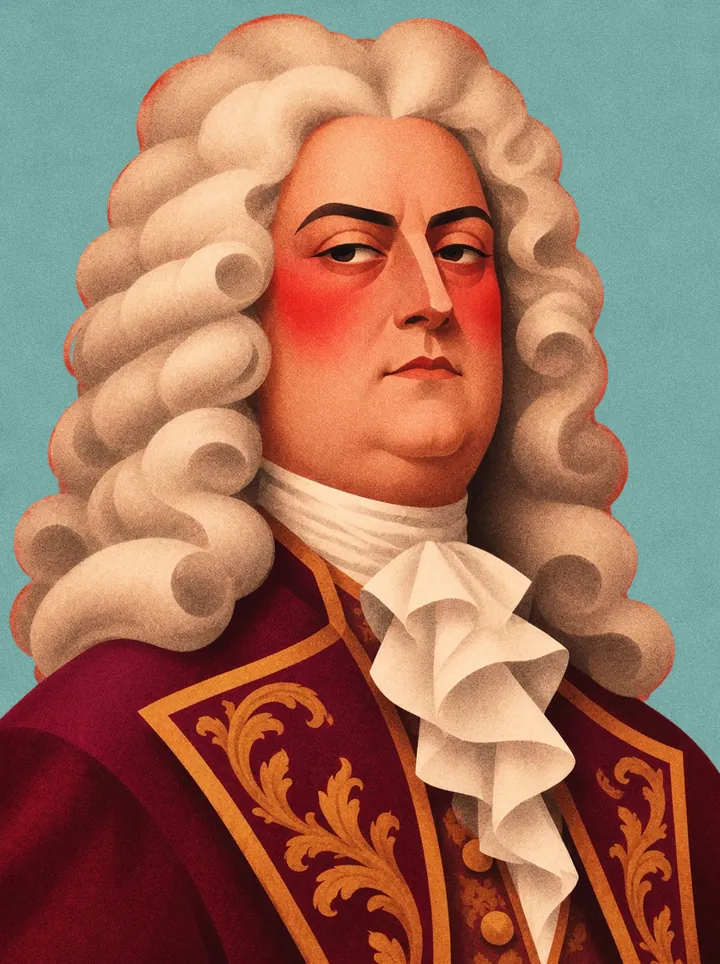
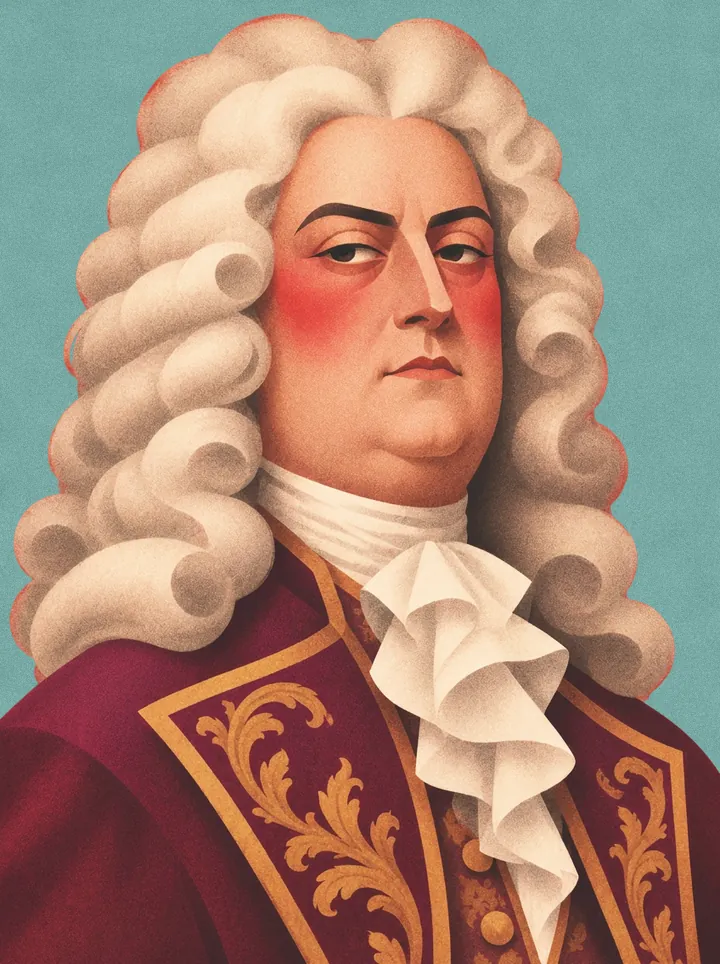
Composer art: backdrops that complement each costume, figures lifted to sit on the pale backdrops, Bizet's face centred at the others' size
Claude-Session: https://claude.ai/code/session_01J9nR1BmP9TjDnKqecdbpyd

diff --git a/scripts/art/composers.py b/scripts/art/composers.py
@@ -9,9 +9,10 @@ named "Johannes Brahms" holds Verdi and "Frame 9" holds Brahms: the images are p
 import numpy as np, os, json, sys
 FIG, OUT = sys.argv[1], sys.argv[2]
 from PIL import Image, ImageFilter
-# backdrops: pale, distinct tints (each composer his own; a few soft reds), a quiet complement to the costume; the originals' own
+# backdrops: pale, distinct tints, each the complement of the costume's main colour (a red coat on aqua, a green
+# coat on blush; black coats on warm tints, a few soft reds); the originals' own
 # backdrops were deep reds that looked alike side by side
-COLS = json.loads('{"handel": "#79aaa4", "mozart": "#9db7d6", "vivaldi": "#a3b996", "faure": "#b2a3d4", "puccini": "#d99a7c", "tchaikovsky": "#c7a3c0", "bizet": "#dcc47e", "rstrauss": "#93c6ae", "wagner": "#c07d78", "rossini": "#a9cfd2", "brahms": "#9fa7d9", "beethoven": "#b7c4cf", "haydn": "#e5aeb6", "verdi": "#e7c9a1", "bach": "#d48a78"}')
+COLS = json.loads('{"handel": "#79aaa4", "mozart": "#9cc3cf", "vivaldi": "#a9c79a", "haydn": "#e5aeb6", "beethoven": "#a6d1bd", "rossini": "#a9cfd2", "verdi": "#e7c9a1", "wagner": "#b8bf8e", "brahms": "#9fa7d9", "puccini": "#a7bfdc", "bach": "#d6907a", "tchaikovsky": "#cd8a82", "faure": "#e6b892", "bizet": "#dfc781", "rstrauss": "#b5a6d6"}')
 CUT = {"handel":"38e4289f22ea","mozart":"ecf959a526d6","vivaldi":"27d33c8fb60d","faure":"ffdd2db6ba62","puccini":"d0d65df90166","tchaikovsky":"a218febde4e9","bizet":"24f075fbd806","rstrauss":"08d635be10fb","wagner":"b0c402cd1a7a","rossini":"c87a9944d0d0","brahms":"9e744d05b498","beethoven":"fd51184d3a32","haydn":"97549252bd2a","verdi":"ce265d70f0b1","bach":"317f7027ec20"}
 full = {h[:12]: h for h in os.listdir(os.path.join(FIG, 'images'))}
 def grain(size, seed, strength=7.0):
@@ -24,11 +25,23 @@ def grain(size, seed, strength=7.0):
         return n * amount
     k = strength / 7.0
     return layer(0, 5.0 * k) + layer(0.6, 2.0 * k) + layer(8, 1.2 * k)
+# the figures were painted for deep red backdrops: on pale ones they read heavy. A gentle lift (exposure), softer
+# blacks, a little less saturation (the red cheeks), and a breath of the backdrop's colour in the shadows so the
+# figure sits in its light.
+EXPOSURE, BLACKS, SAT, AMBIENT = 1.18, 0.07, 0.88, 0.10
+def tone(fig, bgc):
+    luma = (fig * np.array([0.299, 0.587, 0.114], np.float32)).sum(-1, keepdims=True)
+    fig = luma + (fig - luma) * SAT
+    fig = 1 - (1 - fig) ** EXPOSURE
+    fig = BLACKS + fig * (1 - BLACKS)
+    luma = (fig * np.array([0.299, 0.587, 0.114], np.float32)).sum(-1, keepdims=True)
+    return fig + (bgc - fig) * AMBIENT * (1 - luma) ** 2
 def comp(cut, bg, size, seed):
     a = np.asarray(cut).astype(np.float32) / 255; al = a[..., 3:4]
     rgb = np.array([int(bg[i:i+2], 16) for i in (1, 3, 5)], np.float32)
     back = np.broadcast_to(rgb, (size[1], size[0], 3)) + grain(size, seed)[..., None]
-    return Image.fromarray((a[..., :3] * 255 * al + back * (1 - al)).clip(0, 255).astype(np.uint8))
+    fig = tone(a[..., :3], rgb / 255)
+    return Image.fromarray((fig * 255 * al + back * (1 - al)).clip(0, 255).astype(np.uint8))
 os.makedirs(OUT, exist_ok=True)
 for i, (n, h) in enumerate(CUT.items()):
     im = Image.open(os.path.join(FIG, 'images', full[h])).convert('RGBA'); W, H = im.size

diff --git a/scripts/art/composer-faces.py b/scripts/art/composer-faces.py
@@ -29,10 +29,10 @@ for f in [x for x in n if x['type'] == 'FRAME' and round(x['size']['x']) == 700]
     i = list(g['CUT']).index(key)
     g['comp'](fig, g['COLS'][key], (320, 320), i * 7 + 1).save(f'{OUT}/composer-{key}-face.webp', quality=82, method=6)
 
-# Bizet has no circle frame in the file: placed by hand to match the others (in a 700 px frame: the figure 580 wide,
-# 60 from the left, at the top), so his head sits at the same size as theirs.
+# Bizet has no circle frame in the file: placed by hand to match the others (in a 700 px frame: the figure 680 wide, its
+# head centred and about 58% of the circle's height, as in the others), so his head sits at the same size as theirs.
 bz = Image.open(H[g['CUT']['bizet'][:6]]).convert('RGBA')
-x, y, w = 60, 0, 580; s = 320 / 700
+x, y, w = -7, -92, 680; s = 320 / 700
 part = bz.resize((round(w * s), round(w * bz.height / bz.width * s)), Image.LANCZOS)
 fig = Image.new('RGBA', (320, 320), (0, 0, 0, 0)); fig.paste(part, (round(x * s), round(y * s)), part)
 g['comp'](fig, g['COLS']['bizet'], (320, 320), list(g['CUT']).index('bizet') * 7 + 1).save(f'{OUT}/composer-bizet-face.webp', quality=82, method=6)
